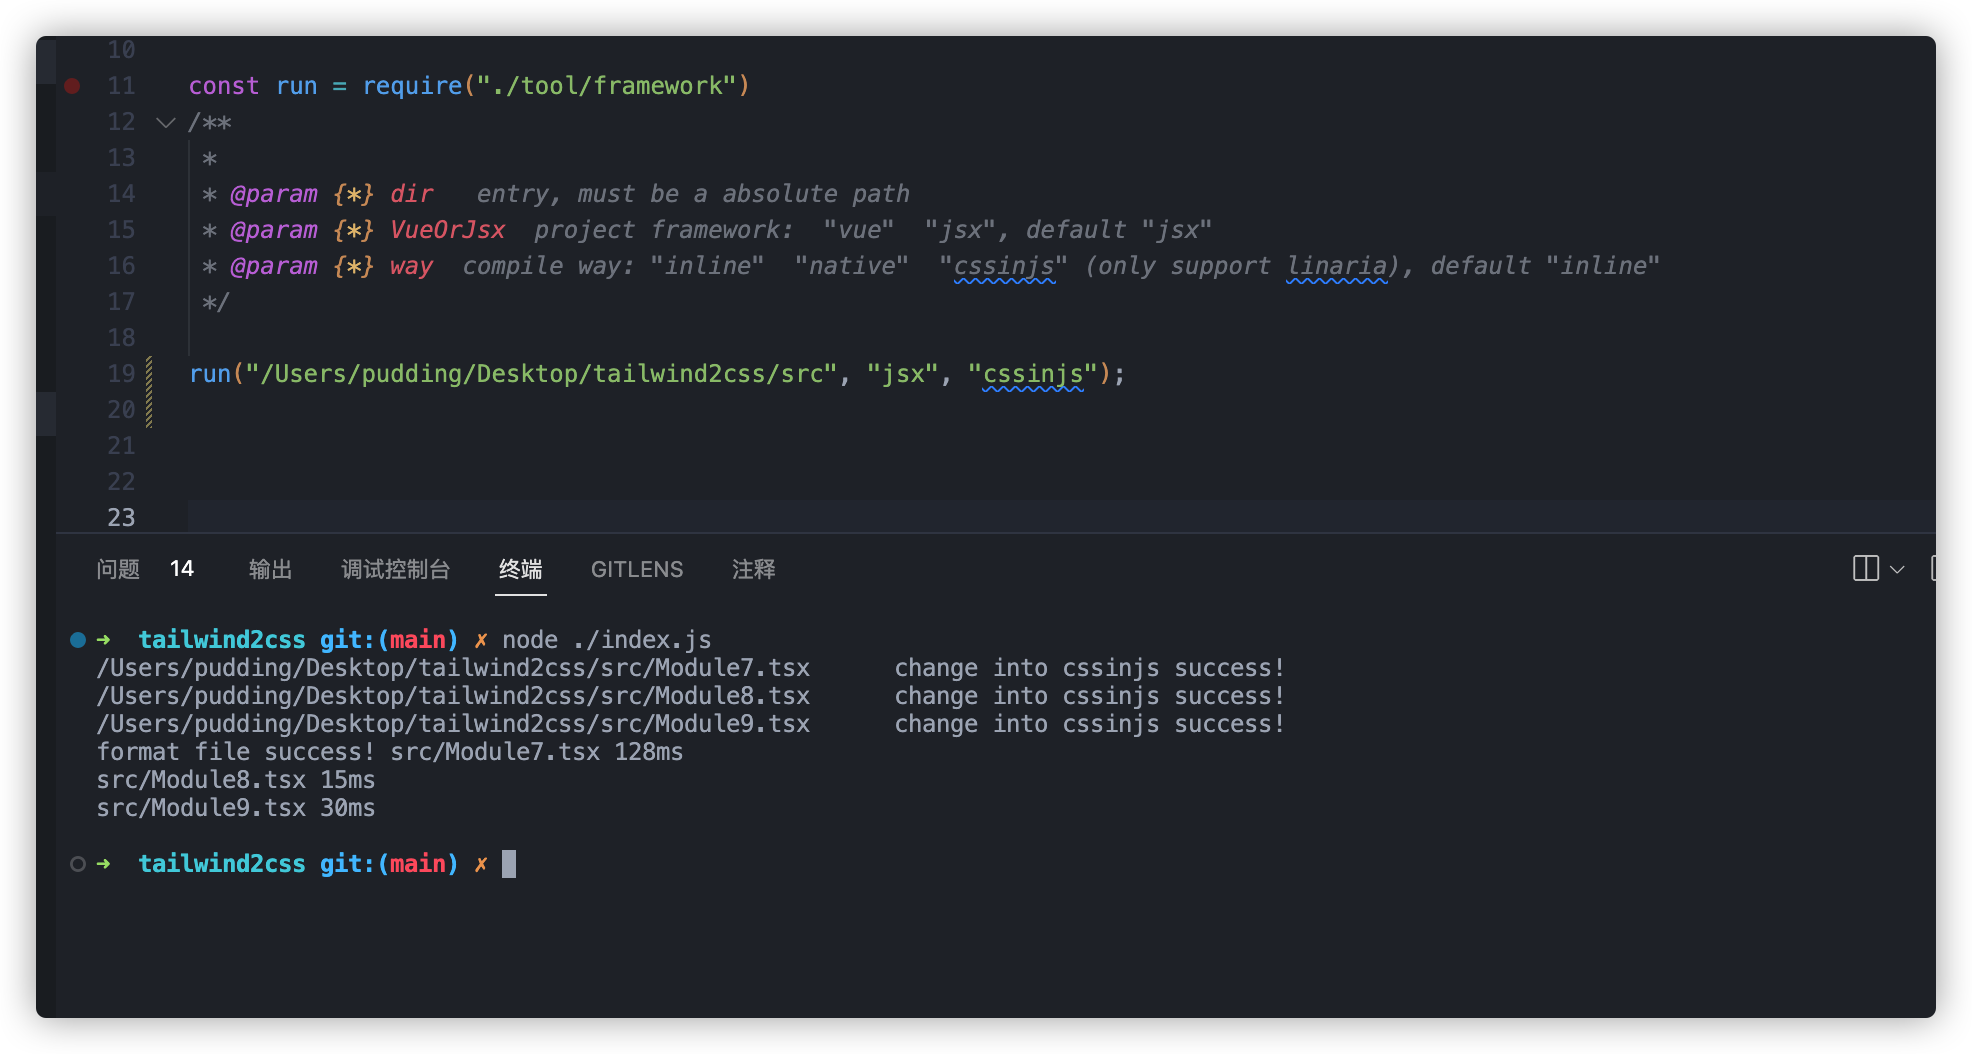
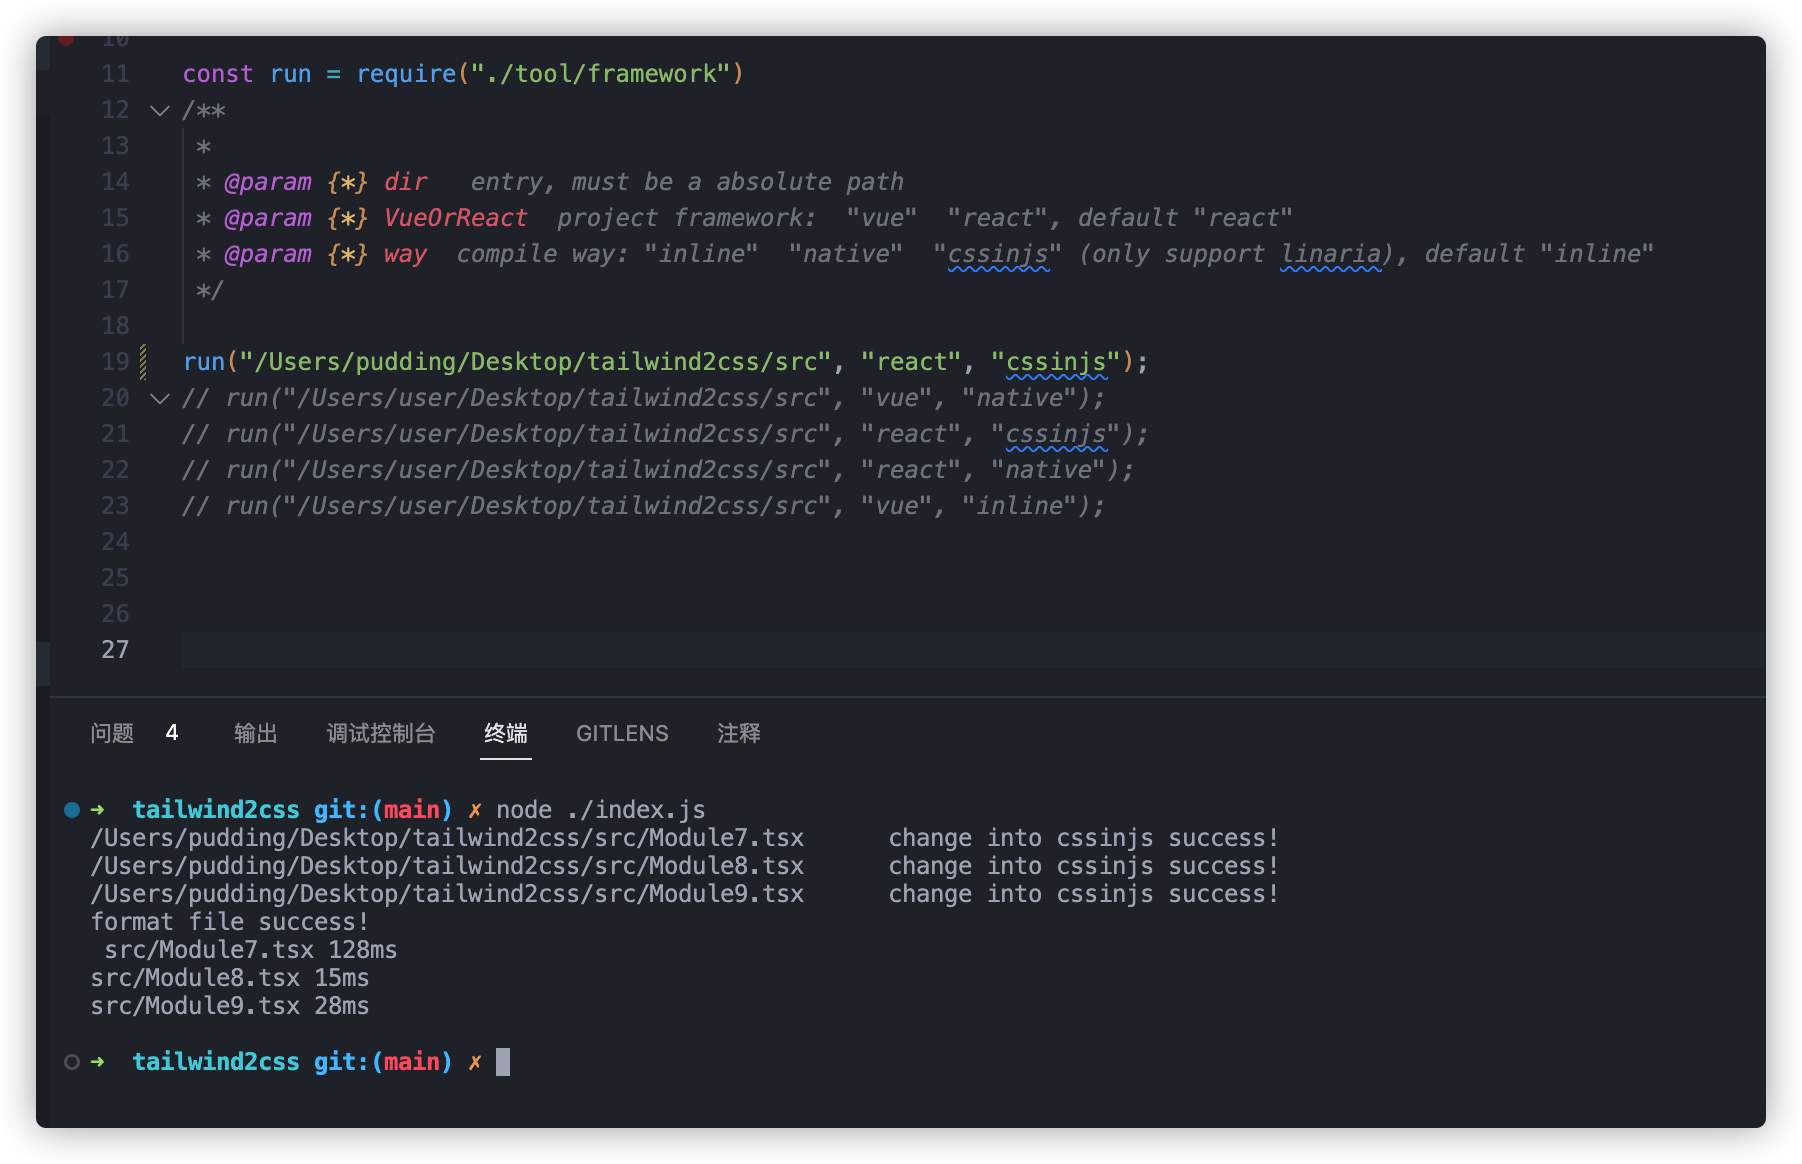
update

diff --git a/index.js b/index.js
@@ -16,7 +16,7 @@ const run = require("./tool/framework")
  * @param {*} way  compile way: "inline"  "native"  "cssinjs" (only support linaria), default "inline"
  */
 
-run("/Users/pudding/Desktop/tailwind2css/src", "react", "inline");
+run("/Users/pudding/Desktop/tailwind2css/src", "react", "native");
 // run("/Users/user/Desktop/tailwind2css/src", "vue", "native");
 // run("/Users/user/Desktop/tailwind2css/src", "react", "cssinjs");
 // run("/Users/user/Desktop/tailwind2css/src", "react", "native");

diff --git a/README.md b/README.md
@@ -20,7 +20,7 @@ Give a star ⭐ if this project helped you!
 
 
 <p align="center">
- <b>  run linaria cssinjs transform in react/vue framework  </b>
+ <b>  run linaria cssinjs transform in react framework  </b>
 </p>
 
 [![TailwindTocss](./imgs/cssinjs1.png "TailwindTocss")]()
